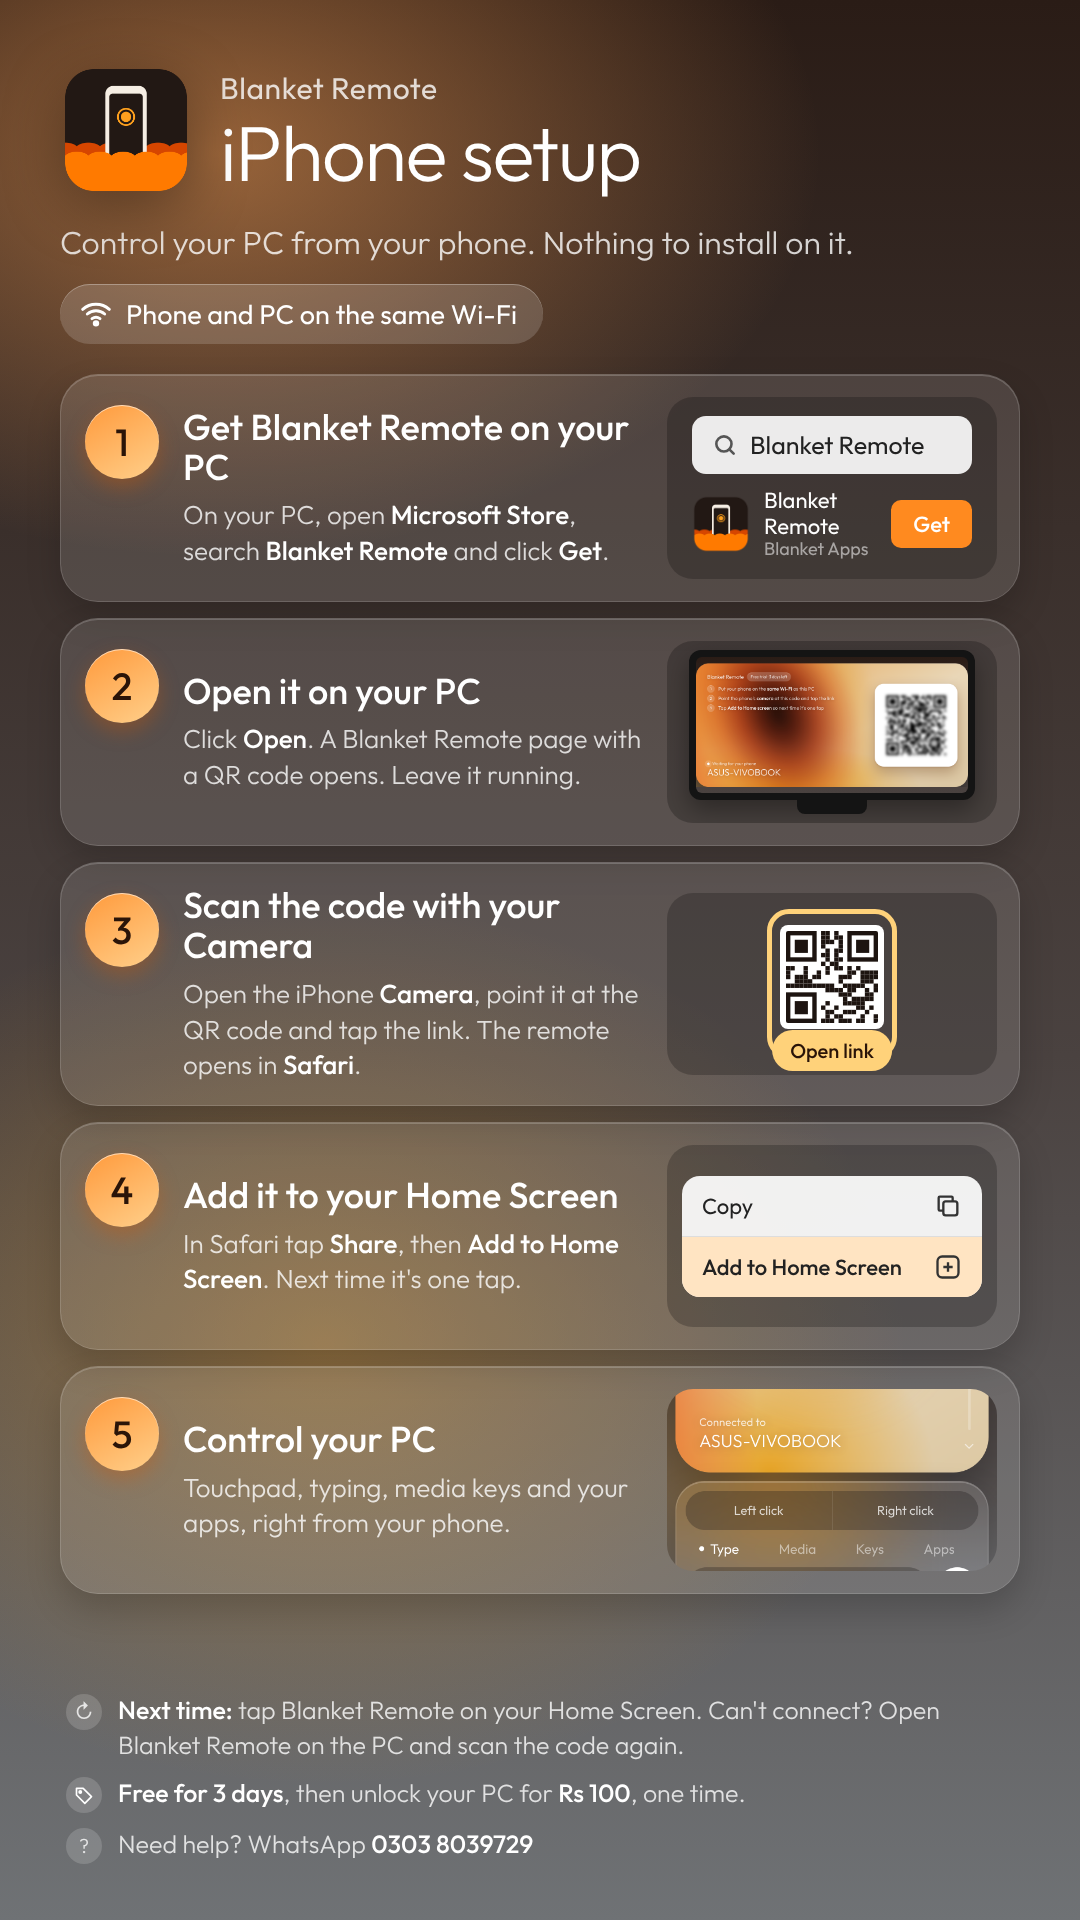
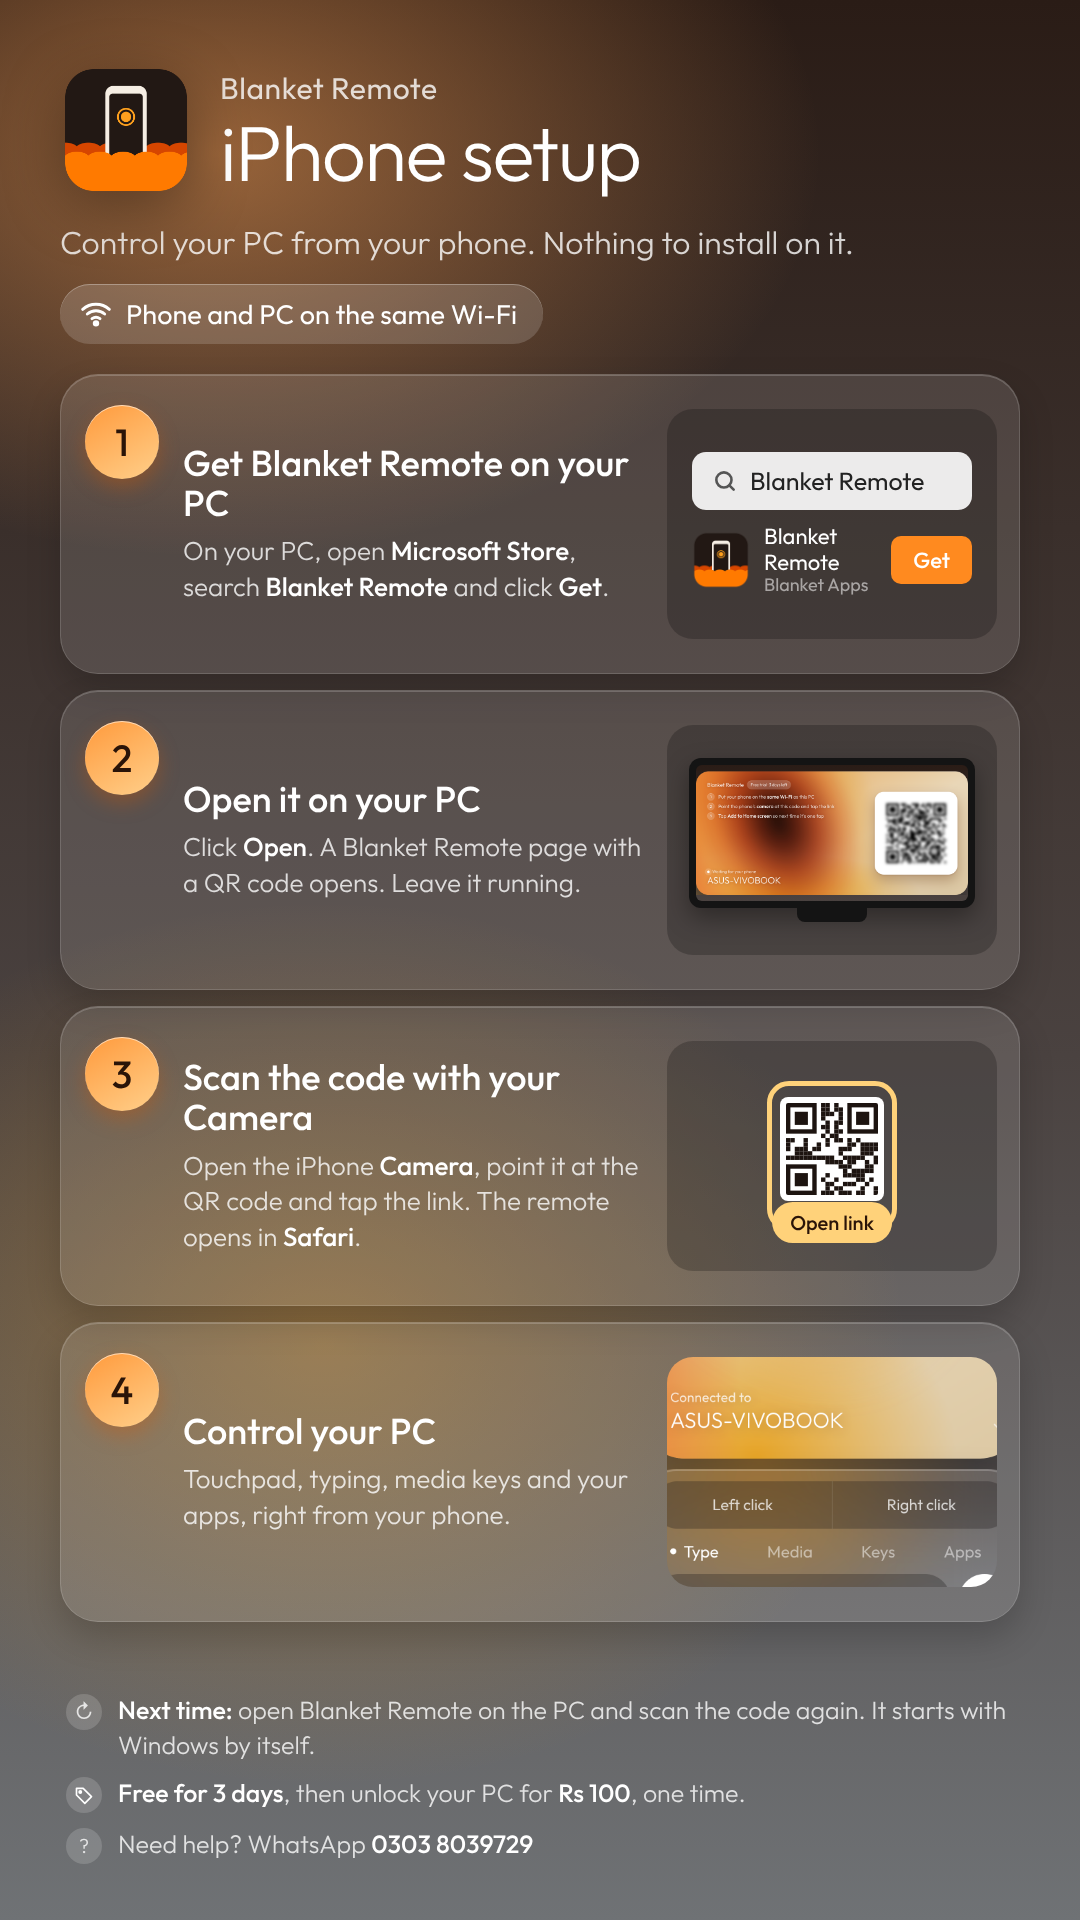
Guides: drop the Add to Home screen step
Claude-Session: https://claude.ai/code/session_01V742Lz2F8aDjRZFtXQFDQW

diff --git a/guide/guide.html b/guide/guide.html
@@ -35,6 +35,8 @@ body.six .wifi { margin-top: 16px; }
 body.six main { padding-top: 54px; }
 body.six .steps { gap: 12px; margin-top: 22px; }
 body.six .vis { height: 170px; }
+body.four .step { min-height: 300px; }
+body.four .vis { height: 230px; }
 .vis { width: 330px; height: 182px; border-radius: 26px; overflow: hidden; position: relative; display: grid; place-items: center; }
 .shot { width: 100%; height: 100%; object-fit: cover; }
 .vis.dark { background: rgba(0,0,0,.22); }
@@ -113,8 +115,6 @@ const steps = {
     ["Open it on your PC", 'Click <b>Open</b>. A page with a QR code opens. Leave Blanket Remote running.', '<div class="vis dark">' + pcPad + '</div>'],
     ["Scan the code with your phone", 'Point your <b>Camera</b> (or Google Lens) at the QR code and tap the link. The remote opens in <b>Chrome</b>.',
      '<div class="vis dark"><div class="cam"><div class="frame"></div><img class="qr" src="shots/fakeqr.svg"><div class="chip">Open link</div></div></div>'],
-    ["Add it to your Home screen", 'In Chrome tap <b>⋮</b> (top right), then <b>Add to Home screen</b>. Next time it\'s one tap.',
-     '<div class="vis dark"><div class="share"><div>Bookmarks <svg viewBox="0 0 24 24" fill="none" stroke-width="2"><path d="M6 3h12v18l-6-4-6 4z"/></svg></div><div class="hl">Add to Home screen <svg viewBox="0 0 24 24" fill="none" stroke-width="2"><rect x="3" y="3" width="18" height="18" rx="4"/><path d="M12 8v8M8 12h8"/></svg></div></div></div>'],
     ["Control your PC", 'Touchpad, typing, media keys and your apps, right from your phone.',
      '<div class="vis"><img class="shot" src="shots/remote-mid.png"></div>'],
   ],
@@ -123,17 +123,16 @@ const steps = {
     ["Open it on your PC", 'Click <b>Open</b>. A Blanket Remote page with a QR code opens. Leave it running.', '<div class="vis dark">' + pcPad + '</div>'],
     ["Scan the code with your Camera", 'Open the iPhone <b>Camera</b>, point it at the QR code and tap the link. The remote opens in <b>Safari</b>.',
      '<div class="vis dark"><div class="cam"><div class="frame"></div><img class="qr" src="shots/fakeqr.svg"><div class="chip">Open link</div></div></div>'],
-    ["Add it to your Home Screen", 'In Safari tap <b>Share</b>, then <b>Add to Home Screen</b>. Next time it\'s one tap.',
-     '<div class="vis dark"><div class="share"><div>Copy <svg viewBox="0 0 24 24" fill="none" stroke-width="2"><rect x="8" y="8" width="12" height="12" rx="2"/><path d="M16 8V5a1 1 0 0 0-1-1H5a1 1 0 0 0-1 1v10a1 1 0 0 0 1 1h3"/></svg></div><div class="hl">Add to Home Screen <svg viewBox="0 0 24 24" fill="none" stroke-width="2"><rect x="3" y="3" width="18" height="18" rx="4"/><path d="M12 8v8M8 12h8"/></svg></div></div></div>'],
     ["Control your PC", 'Touchpad, typing, media keys and your apps, right from your phone.',
      '<div class="vis"><img class="shot" src="shots/remote-mid.png"></div>'],
   ],
 };
+document.body.classList.add("four");
 const title = v === "iphone" ? "iPhone setup" : "Android setup";
 const lead = "Control your PC from your phone. Nothing to install on it.";
 const restartTip = v === "iphone"
-  ? '<b>Next time:</b> tap Blanket Remote on your Home Screen. Can\'t connect? Open Blanket Remote on the PC and scan the code again.'
-  : '<b>Next time:</b> tap Blanket Remote on your Home screen. Can\'t connect? Open Blanket Remote on the PC and scan the code again.';
+  ? '<b>Next time:</b> open Blanket Remote on the PC and scan the code again. It starts with Windows by itself.'
+  : '<b>Next time:</b> open Blanket Remote on the PC and scan the code again. It starts with Windows by itself.';
 document.getElementById("root").innerHTML =
   '<header><img src="' + icon + '"><div><div class="brand">Blanket Remote</div><h1>' + title + '</h1></div></header>'
   + '<p class="lead">' + lead + '</p>'
